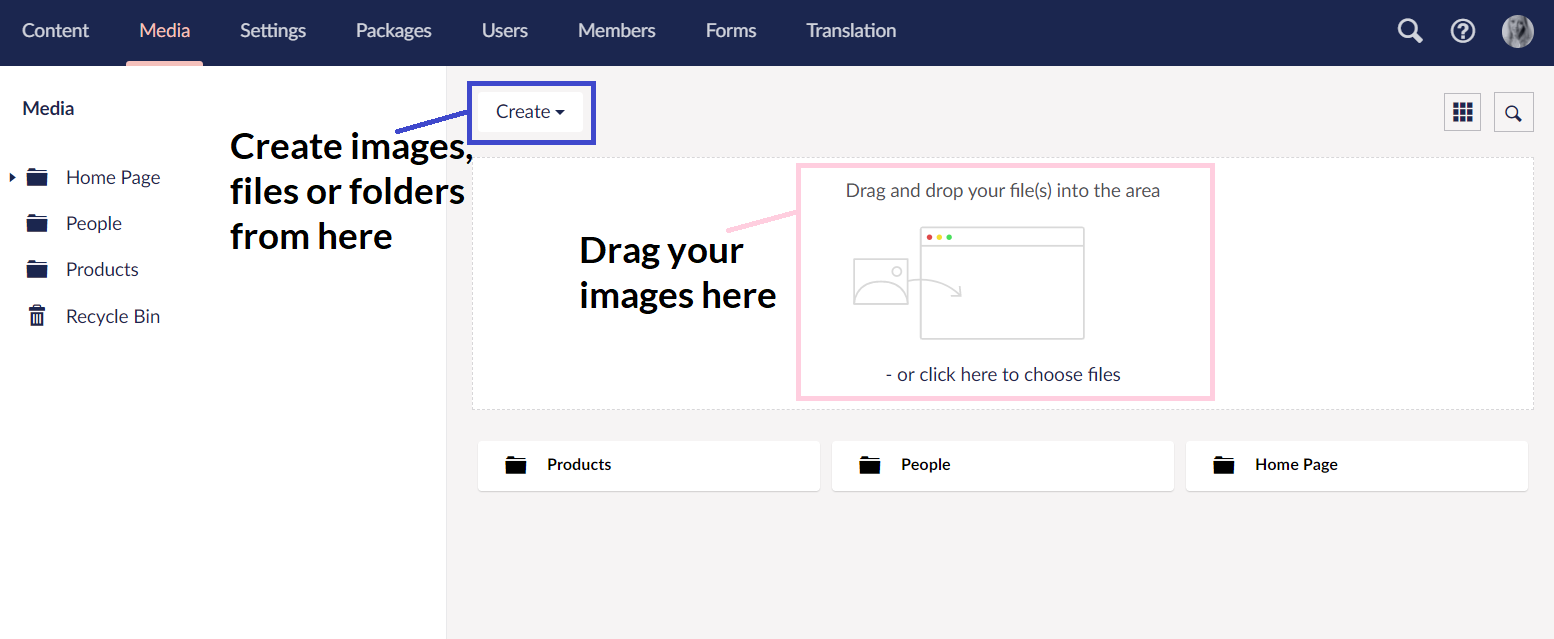
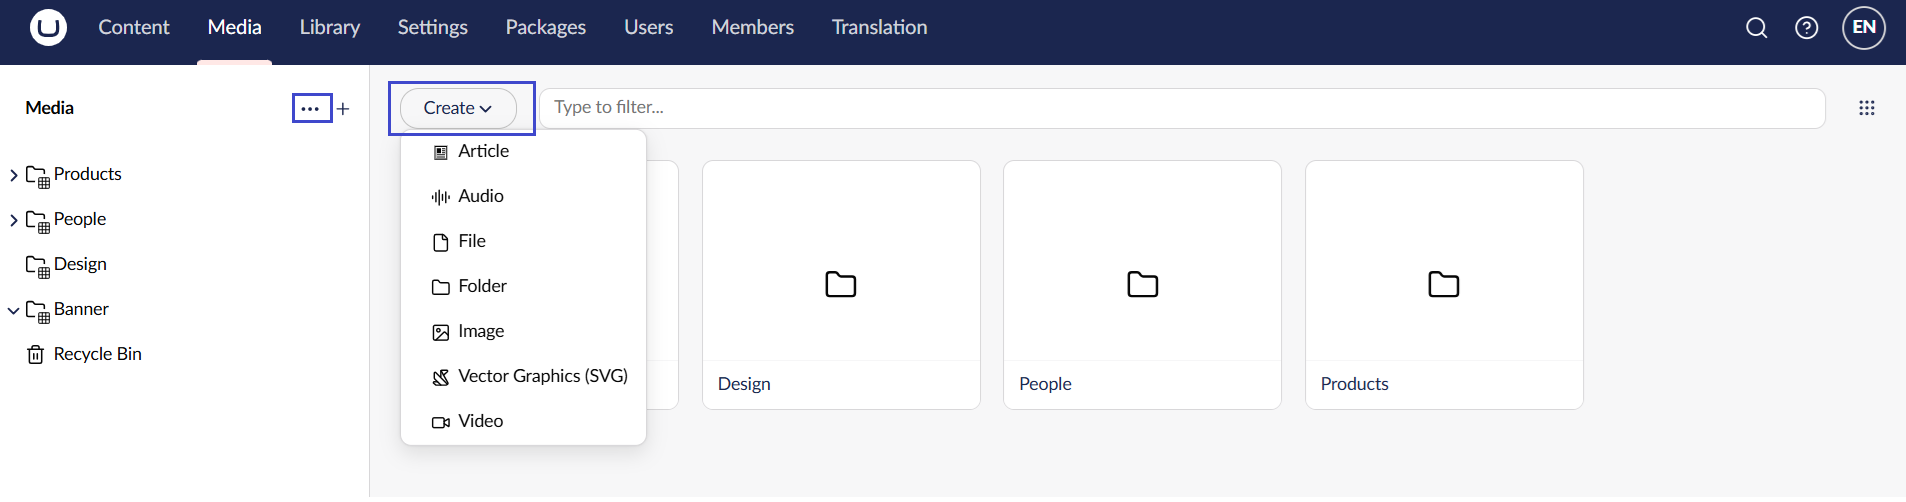
Merge pull request #8146 from umbraco/v18-screenshots
Updated images for Folders and Media Types articles - v18

Pull request: Updated images for Folders and Media Types articles - v18
## 📋 Description

Updated images for following articles:
- Media and Assets

## 📎 Related Issues (if applicable)

<!-- List any related issues, e.g. "Fixes #1234" -->

## ✅ Contributor Checklist

I've followed the [Umbraco Documentation Style Guide](https://docs.umbraco.com/contributing/documentation/style-guide) and can confirm that:

* [ ] Code blocks are correctly formatted.
* [ ] Sentences are short and clear (preferably under 25 words).
* [ ] Passive voice and first-person language (“we”, “I”) are avoided.
* [ ] Relevant pages are linked.
* [ ] All links work and point to the correct resources.
* [ ] Screenshots or diagrams are included if useful.
* [ ] Any code examples or instructions have been tested.
* [ ] Typos, broken links, and broken images are fixed.

## Product & Version (if relevant)

CMS v18

## Deadline (if relevant)

<!-- When should the content be published? -->

## 📚 Helpful Resources

* 🧾 [Umbraco Contribution Guidelines](https://docs.umbraco.com/contributing)
* ✍️ [Umbraco Documentation Style Guide](https://docs.umbraco.com/contributing/documentation/style-guide)

diff --git a/18/umbraco-cms/manage-and-publish-content/media-and-assets/working-with-folders.md b/18/umbraco-cms/manage-and-publish-content/media-and-assets/working-with-folders.md
@@ -11,9 +11,9 @@ To create a folder:
 1. Go to the **Media** section.
 2. Click on **•••** next to Media.
 3. Click **Create**.
-4.  Select **Folder**.
+4. Select **Folder**.
 
-    ![Create Folder](../../.gitbook/assets/create-folder-v14.png)
+    ![Create Folder](../../.gitbook/assets/create-folder-v18.png)
 5. Enter a **Name** for your folder.
 6. Click **Save**.
 
@@ -25,13 +25,50 @@ Folders are only used for sorting media items within the media section. Folders 
 
 To edit an existing folder:
 
-1. Select the folder you want to edit from the **Media** tree.
+1. Select the folder you want to edit.
 2. Edit the title at the top of the page.
-3.  Click **Create** to add another media type.\
-    Alternatively, click on **Actions** > **Create**.
+3. Click **Save**.
 
-    ![Edit Folder](../../.gitbook/assets/Edit-folder-v14.png)
-4. Click **Save**.
+### Create an item under a Folder
+
+To create an item under a folder:
+
+1. Select the folder where you want to create an item.
+2. Click **Create** to add another media type. Alternatively, click on **...** next to the folder title -> **Create**.
+
+![Edit Folder](../../.gitbook/assets/create-item-in-folder.png)
+
+3. Select the media type you want to add.
+4. Enter the media details.
+5. Click Save.
+
+## Moving a Folder
+
+To move Folders within the Media section:
+
+1. Click **•••** next to the folder.
+2. Select **Move to...**.
+
+    ![Move Folder](../../.gitbook/assets/Move-Folder.png)
+3. Choose the location where you want to move the folder to in the tree structure.
+
+    ![Move Media.png](../../.gitbook/assets/Move-media-location.png)
+4. Click **Choose**.
+
+## Sorting the Contents of a Folder
+
+Media items in Umbraco are sorted in the tree view according to a predefined sort order. The item that has been created most recently is placed at the bottom of the tree structure.
+
+To sort the order of the items in a folder:
+
+1. Click **...** next to the folder you want to sort.
+2.  Select **Sort children**.
+
+    ![Sort Folder](../../.gitbook/assets/Sort-Folder.png)
+3.  Drag the folders, images and files into the required order. Alternatively, click on the **Name** or **Created** column header to sort the items in ascending or descending order. Clicking on a column header again reverses the sort order.
+
+    ![Sort Items](../../.gitbook/assets/sort-items.png)
+4. Click **Sort.**
 
 ## Deleting a Folder
 
@@ -42,52 +79,25 @@ To delete a folder:
 1. Select the folder you want to delete.
 2.  Click **...** and select **Trash**.
 
-    ![Delete Folder](../../.gitbook/assets/Delete-folder-v14.png)
-3. Click **OK**.
+    ![Delete Folder](../../.gitbook/assets/Delete-folder.png)
+3. Click **Trash**.
 
 {% hint style="info" %}
 The contents of the folder are also moved to the Recycle Bin. You can restore items from the Recycle Bin in the same way as in the Content section.
 {% endhint %}
 
-## Restoring a Folder from the Recycle Bin
+### Restoring a Folder from the Recycle Bin
 
 The Recycle Bin is a separate tree structure within the Media tree. Clicking on the arrow next to the Recycle Bin will display its contents.
 
-![Recycle Bin](../../.gitbook/assets/mediaRecycle-v14.png)
+![Recycle Bin](../../.gitbook/assets/media-Recycle.png)
 
 To restore a Folder:
 
 1. Click **•••** next to the Folder.
-2.  Select **Restore**.
+2. Select **Restore**.
 
-    ![Restore Folder](../../.gitbook/assets/Restore-Folder-v14.png)
-3. Click **Restore**.
+    ![Restore Folder](../../.gitbook/assets/Restore-Folder.png)
 
-### Moving a Folder from the Recycle Bin
-
-To move Folders within the Media section:
-
-1. Click **•••** next to the folder.
-2.  Select **Move**.
-
-    ![Move Folder](../../.gitbook/assets/Move-Folder-v9.png)
-3.  Choose the location where you want to move the folder to in the tree structure.
-
-    ![Move Media.png](../../.gitbook/assets/Move-media-location-v9.png)
-4. Click **Move**.
-5. Click **OK** to dismiss the confirmation message.
-
-## Sorting the Contents of a Folder
-
-Media items in Umbraco are sorted in the tree view according to a predefined sort order. The item that has been created most recently is placed at the bottom of the tree structure.
-
-To sort the order of the items in a folder:
-
-1. Click **...** next to the folder you want to sort.
-2.  Select **Sort**.
-
-    ![Sort Folder](../../.gitbook/assets/Sort-Folder-v9.png)
-3.  Drag the folders, images and files into the required order. Alternatively, click on the **Name** or **Creation Date** column header to sort the items in ascending or descending order. Clicking on a column header again reverses the sort order.
-
-    ![Sort Items](../../.gitbook/assets/sort-items-v9.png)
-4. Click **Save.**
+3. Choose the location where you want to move the folder to in the tree structure.
+4. Click **Restore**.

diff --git a/18/umbraco-cms/manage-and-publish-content/media-and-assets/working-with-images-and-files.md b/18/umbraco-cms/manage-and-publish-content/media-and-assets/working-with-images-and-files.md
@@ -17,10 +17,10 @@ In the Media Library, there are multiple ways to upload media items. The two mos
 1. Use the **Create** button to create a new media item and then upload directly from your machine.
 2.  The **...** next to the Media tree in the Media section.
 
-    ![mediaUpload.jpg](../../.gitbook/assets/upload-images-v14.png)
+    ![mediaUpload.jpg](../../.gitbook/assets/upload-images.png)
 
 {% hint style="info" %}
-We recommend using folders to organize your media items if you are going to add a lot of media to your website.
+It is recommended to use folders to organize your media items if you are going to add a lot of media to your website.
 {% endhint %}
 
 ## Deleting a Media Item
@@ -30,9 +30,9 @@ If you wish to tidy up the Media section of your site, you can delete existing m
 To delete a Media Item:
 
 1. Select the media item you want to delete.
-2.  Click **...** and select **Trash**.
+2. Click **...** and select **Trash**.
 
-    ![mediaUpload.jpg](../../.gitbook/assets/delete-media-item-v14.png)
+    ![mediaUpload.jpg](../../.gitbook/assets/delete-media-item.png)
 3. Click **Trash**.
 
 {% hint style="warning" %}
@@ -45,14 +45,12 @@ If you wish to change this behavior, [see details for the `EnableMediaRecycleBin
 
 The **Recycle Bin** is a separate tree structure within the Media section. Clicking on the arrow next to the Recycle Bin will display its contents.
 
-![Recycle Bin](../../.gitbook/assets/mediaRecycle-single-imagev14.png)
-
 To restore a Media Item:
 
 1. Click **•••** next to the Media Item.
-2.  Select **Restore**.
+2. Select **Restore**.
 
-    ![Restore Folder](../../.gitbook/assets/Restore-MediaItem-v14.png)
+    ![Restore Folder](../../.gitbook/assets/Restore-MediaItem.png)
 3. Click **Restore**.
 
 ## Moving an Image or File
@@ -60,14 +58,13 @@ To restore a Media Item:
 To move Media Items within the Media section:
 
 1. Select the Media Item you want to move.
-2.  Click **...** next to the Media Item and click **Move**.
+2.  Click **...** next to the Media Item and click **Move to**.
 
-    ![Move media items](../../.gitbook/assets/move-images-v9.png)
+    ![Move media items](../../.gitbook/assets/move-images.png)
 3.  Choose the location where you want to move the Media Item to in the tree structure.
 
-    ![Move Media.png](../../.gitbook/assets/Move-media-location-v9.png)
-4. Click **Move**.
-5. Click **OK** to dismiss the confirmation message.
+    ![Move Media.png](../../.gitbook/assets/Move-media-location.png)
+4. Click **Choose**.
 
 ## More Information
 